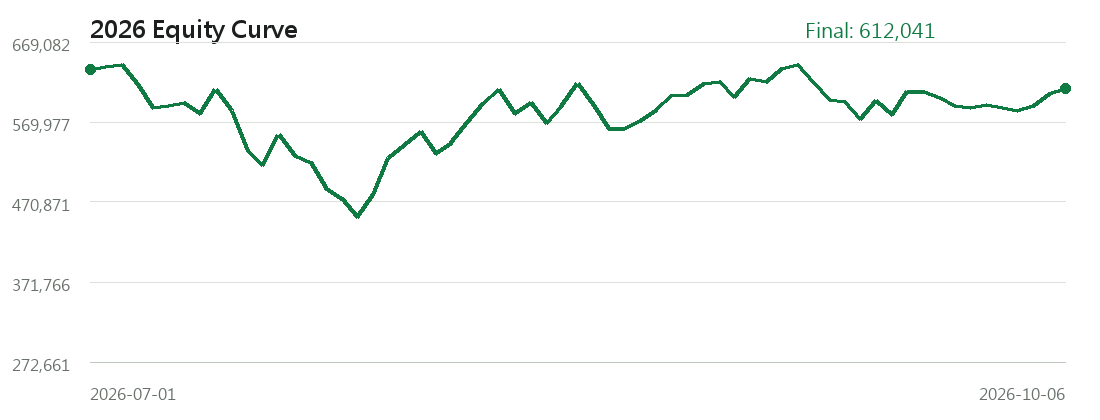
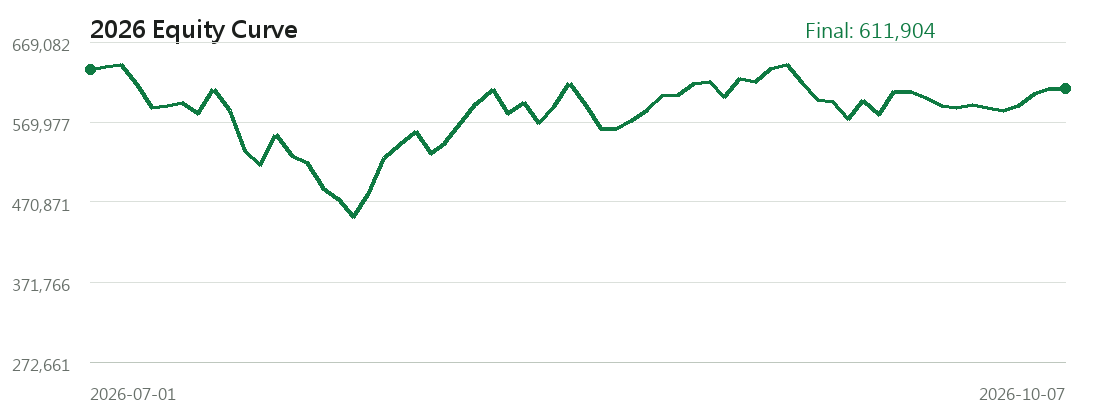
Update dashboard data

diff --git a/data.js b/data.js
@@ -1,5 +1,5 @@
 window.PUBLIC_FOLLOW_DATA = {
-  "generated_at": "2026-10-06T18:33:55.646154+08:00",
+  "generated_at": "2026-10-07T18:34:32.130784+08:00",
   "public_note": "Static follow dashboard only. Backend code, database, cache, and parameter search files are local-only.",
   "assumptions": {
     "initial_capital": 300000.0,
@@ -8,20 +8,20 @@ window.PUBLIC_FOLLOW_DATA = {
     "position_sizing": "Capital is split across up to 5 positions with integer-share sizing."
   },
   "data_status": {
-    "signal_date": "2026-10-06",
-    "latest_chip_date": "2026-10-06",
-    "latest_price_date": "2026-10-06",
+    "signal_date": "2026-10-07",
+    "latest_chip_date": "2026-10-07",
+    "latest_price_date": "2026-10-07",
     "candidate_count": 2,
     "warning": null
   },
   "metrics": {
     "initial_capital": 300000.0,
-    "final_value": 612041.1424613954,
+    "final_value": 611903.6424613954,
     "cash": -3649.3575386047014,
-    "total_return_pct": 104.01371415379845,
-    "annualized_return_pct": 169.0019256596782,
+    "total_return_pct": 103.96788082046511,
+    "annualized_return_pct": 167.91227831551058,
     "start_date": "2026-01-16",
-    "end_date": "2026-10-06",
+    "end_date": "2026-10-07",
     "closed_trade_count": 71,
     "entry_count": 72,
     "open_position_count": 5,
@@ -408,6 +408,12 @@ window.PUBLIC_FOLLOW_DATA = {
       "equity": 612041.1424613954,
       "cash": -3649.3575386047014,
       "position_count": 5
+    },
+    {
+      "date": "2026-10-07",
+      "equity": 611903.6424613954,
+      "cash": -3649.3575386047014,
+      "position_count": 5
     }
   ],
   "holdings": [
@@ -417,11 +423,11 @@ window.PUBLIC_FOLLOW_DATA = {
       "quantity": 90,
       "entry_date": "2026-09-30",
       "entry_price": 1375.0,
-      "current_price_date": "2026-10-06",
+      "current_price_date": "2026-10-07",
       "current_price": 1535.0,
       "market_value": 138150.0,
       "unrealized_return_pct": 11.636363636363644,
-      "holding_days": 6,
+      "holding_days": 7,
       "concept_tag_names": [
         "CoWoS/先進封裝",
         "證券券商",
@@ -445,11 +451,11 @@ window.PUBLIC_FOLLOW_DATA = {
       "quantity": 143,
       "entry_date": "2026-10-02",
       "entry_price": 819.0,
-      "current_price_date": "2026-10-06",
+      "current_price_date": "2026-10-07",
       "current_price": 780.0,
       "market_value": 111540.0,
       "unrealized_return_pct": -4.761904761904767,
-      "holding_days": 4,
+      "holding_days": 5,
       "concept_tag_names": [
         "網安/網路設備",
         "證券券商",
@@ -465,11 +471,11 @@ window.PUBLIC_FOLLOW_DATA = {
       "quantity": 213,
       "entry_date": "2026-10-05",
       "entry_price": 560.0,
-      "current_price_date": "2026-10-06",
-      "current_price": 561.0,
-      "market_value": 119493.0,
-      "unrealized_return_pct": 0.17857142857142794,
-      "holding_days": 1,
+      "current_price_date": "2026-10-07",
+      "current_price": 556.0,
+      "market_value": 118428.0,
+      "unrealized_return_pct": -0.7142857142857117,
+      "holding_days": 2,
       "concept_tag_names": [
         "PCB鑽針/探針",
         "證券券商",
@@ -482,11 +488,11 @@ window.PUBLIC_FOLLOW_DATA = {
       "quantity": 251,
       "entry_date": "2026-10-06",
       "entry_price": 485.5,
-      "current_price_date": "2026-10-06",
-      "current_price": 482.5,
-      "market_value": 121107.5,
-      "unrealized_return_pct": -0.6179196704428458,
-      "holding_days": 0,
+      "current_price_date": "2026-10-07",
+      "current_price": 485.0,
+      "market_value": 121735.0,
+      "unrealized_return_pct": -0.1029866117404743,
+      "holding_days": 1,
       "concept_tag_names": [
         "證券券商",
         "光纖/光纜",
@@ -503,11 +509,11 @@ window.PUBLIC_FOLLOW_DATA = {
       "quantity": 30,
       "entry_date": "2026-10-06",
       "entry_price": 4000.0,
-      "current_price_date": "2026-10-06",
-      "current_price": 4180.0,
-      "market_value": 125400.0,
-      "unrealized_return_pct": 4.499999999999993,
-      "holding_days": 0,
+      "current_price_date": "2026-10-07",
+      "current_price": 4190.0,
+      "market_value": 125700.0,
+      "unrealized_return_pct": 4.75000000000001,
+      "holding_days": 1,
       "concept_tag_names": [
         "AI ASIC/高速運算IC",
         "證券券商",
@@ -520,55 +526,168 @@ window.PUBLIC_FOLLOW_DATA = {
     }
   ],
   "trade_plan": {
-    "sell_orders": [],
-    "buy_orders": [],
-    "total_sell_amount": 0,
-    "total_buy_amount": 0,
+    "sell_orders": [
+      {
+        "stock_id": "6187",
+        "company_name": "萬潤",
+        "quantity": 90,
+        "price": 1535.0,
+        "amount": 138150.0,
+        "concept_tag_names": [
+          "CoWoS/先進封裝",
+          "證券券商",
+          "MLCC/被動元件",
+          "RF前端/功率放大器",
+          "保護元件/電感",
+          "化合物半導體/RF",
+          "半導體設備",
+          "工具機/自動化設備",
+          "投資控股",
+          "晶圓製程設備零組件",
+          "檢測設備/服務",
+          "系統整合/資服",
+          "被動元件",
+          "半導體IP/設計服務"
+        ]
+      },
+      {
+        "stock_id": "3293",
+        "company_name": "鈊象",
+        "quantity": 143,
+        "price": 780.0,
+        "amount": 111540.0,
+        "concept_tag_names": [
+          "網安/網路設備",
+          "證券券商",
+          "投資控股",
+          "遊戲/VR裝置",
+          "遊戲/數位內容",
+          "基礎產業:文化創意業"
+        ]
+      }
+    ],
+    "buy_orders": [
+      {
+        "stock_id": "6672",
+        "company_name": "騰輝電子-KY",
+        "quantity": 242,
+        "price": 505.0,
+        "amount": 122210.0,
+        "action": "SELL_WEAKEST_BUY_CANDIDATE",
+        "entry_date": null,
+        "concept_tag_names": [
+          "CCL/銅箔基板",
+          "PCB/CCL",
+          "證券券商",
+          "PCB/HDI",
+          "PCB/銅箔進階材料",
+          "工具機零組件",
+          "投資控股",
+          "晶圓製程設備零組件",
+          "基礎產業:電子零組件業"
+        ]
+      },
+      {
+        "stock_id": "1301",
+        "company_name": "台塑",
+        "quantity": 1623,
+        "price": 75.4000015258789,
+        "amount": 122374.20247650146,
+        "action": "SELL_WEAKEST_BUY_CANDIDATE",
+        "entry_date": null,
+        "concept_tag_names": [
+          "石化上游",
+          "證券券商",
+          "NB/PC代工",
+          "塑膠原料/樹脂",
+          "投資控股"
+        ]
+      }
+    ],
+    "total_sell_amount": 249690.0,
+    "total_buy_amount": 244584.20247650146,
     "starting_cash": -3649.3575386047014,
-    "net_cash_change": 0,
-    "cash_after_plan": -3649.3575386047014,
-    "needs_extra_cash": 3649.3575386047014,
-    "remaining_cash": 0.0
+    "net_cash_change": 5105.797523498535,
+    "cash_after_plan": 1456.4399848938338,
+    "needs_extra_cash": 0.0,
+    "remaining_cash": 1456.4399848938338
   },
   "today_candidates": [
     {
       "rank": 1,
-      "signal_date": "2026-10-06",
-      "stock_id": "3443",
-      "company_name": "創意",
-      "action": "WATCH_WEAKER_THAN_CURRENT_HOLDING",
-      "reference_price": 8375.0,
-      "target_amount": 122408.22849227907,
-      "suggested_quantity": 14,
-      "buy_amount": 117250.0,
+      "signal_date": "2026-10-07",
+      "stock_id": "6672",
+      "company_name": "騰輝電子-KY",
+      "action": "SELL_WEAKEST_BUY_CANDIDATE",
+      "reference_price": 505.0,
+      "target_amount": 122380.72849227907,
+      "suggested_quantity": 242,
+      "buy_amount": 122210.0,
+      "sell_stock_id": "6187",
+      "sell_company_name": "萬潤",
+      "sell_quantity": 90,
+      "sell_current_price": 1535.0,
+      "sell_market_value": 138150.0,
       "concept_tag_names": [
-        "AI ASIC/高速運算IC",
-        "ASIC設計服務",
+        "CCL/銅箔基板",
+        "PCB/CCL",
         "證券券商",
-        "半導體IP/設計服務",
+        "PCB/HDI",
+        "PCB/銅箔進階材料",
+        "工具機零組件",
         "投資控股",
         "晶圓製程設備零組件",
-        "系統整合/資服"
+        "基礎產業:電子零組件業"
       ],
-      "action_text": "觀察"
+      "sell_concept_tag_names": [
+        "CoWoS/先進封裝",
+        "證券券商",
+        "MLCC/被動元件",
+        "RF前端/功率放大器",
+        "保護元件/電感",
+        "化合物半導體/RF",
+        "半導體設備",
+        "工具機/自動化設備",
+        "投資控股",
+        "晶圓製程設備零組件",
+        "檢測設備/服務",
+        "系統整合/資服",
+        "被動元件",
+        "半導體IP/設計服務"
+      ],
+      "action_text": "換股買進"
     },
     {
       "rank": 2,
-      "signal_date": "2026-10-06",
-      "stock_id": "1709",
-      "company_name": "和益",
-      "action": "WATCH_WEAKER_THAN_CURRENT_HOLDING",
-      "reference_price": 63.29999923706055,
-      "target_amount": 122408.22849227907,
-      "suggested_quantity": 1933,
-      "buy_amount": 122358.89852523804,
+      "signal_date": "2026-10-07",
+      "stock_id": "1301",
+      "company_name": "台塑",
+      "action": "SELL_WEAKEST_BUY_CANDIDATE",
+      "reference_price": 75.4000015258789,
+      "target_amount": 122380.72849227907,
+      "suggested_quantity": 1623,
+      "buy_amount": 122374.20247650146,
+      "sell_stock_id": "3293",
+      "sell_company_name": "鈊象",
+      "sell_quantity": 143,
+      "sell_current_price": 780.0,
+      "sell_market_value": 111540.0,
       "concept_tag_names": [
-        "特用化學/材料",
+        "石化上游",
         "證券券商",
+        "NB/PC代工",
         "塑膠原料/樹脂",
         "投資控股"
       ],
-      "action_text": "觀察"
+      "sell_concept_tag_names": [
+        "網安/網路設備",
+        "證券券商",
+        "投資控股",
+        "遊戲/VR裝置",
+        "遊戲/數位內容",
+        "基礎產業:文化創意業"
+      ],
+      "action_text": "換股買進"
     }
   ],
   "recent_entries": [
